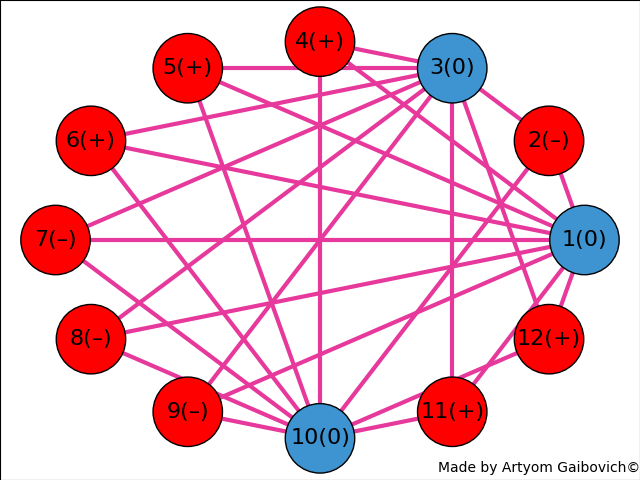
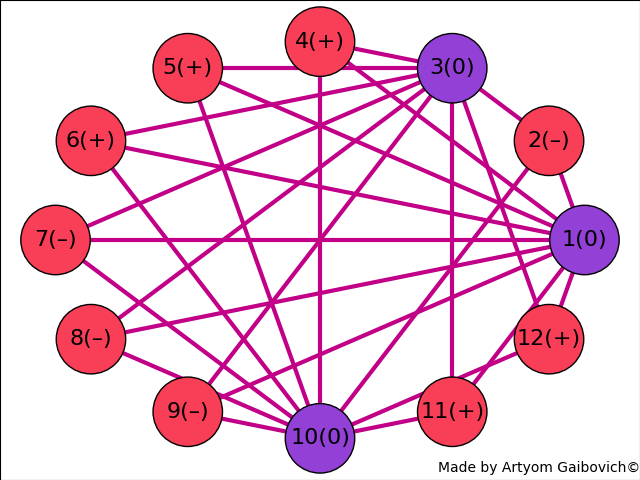
that is all

diff --git a/drawGraph/drawUnionGraph.py b/drawGraph/drawUnionGraph.py
@@ -4,23 +4,30 @@ import networkx as nx
 import matplotlib.pyplot as plt
 
 data = [0, '–', 0, '+', '+', '+', '–', '–', '–', 0, '+', '+']
-df = pd.DataFrame({'col': data}, index=range(1, len(data)+1))
 
+
+data = [str(i).replace('0', '0') for i in data]
+data = [element.replace('–', '-') for element in data]
+
+df = pd.DataFrame({'col': data}, index=range(1, len(data)+1))
 G = nx.Graph()
 
 # добавляем вершины в граф из индексов df
 G.add_nodes_from(df.index)
 
+for node in G.nodes():
+    G.nodes[node]['color'] = '#A468D5'
+
 
 for node1 in G.nodes():
     for node2 in G.nodes():
         if node1 != node2 and df.loc[node1, 'col'] == df.loc[node2, 'col']:
-            if df.loc[node1, 'col'] == 0:  # если значение в ячейке равно "0", добавляем пунктирное ребро
-                G.add_edge(node1, node2, color='yellow', style='dashed')
+            if df.loc[node1, 'col'] == '0':  # если значение в ячейке равно "0", добавляем пунктирное ребро
+                G.add_edge(node1, node2, color='#F30021', style='dashed')
             if df.loc[node1, 'col'] == '+':  # если значение в ячейке равно "0", добавляем пунктирное ребро
-                G.add_edge(node1, node2, color='green', style='dashed')
-            if df.loc[node1, 'col'] == '–' or df.loc[node1, 'col'] == '-':
-                G.add_edge(node1, node2, color='blue', style='dashed')
+                G.add_edge(node1, node2, color='#F97083', style='dashed')
+            if df.loc[node1, 'col'] == '-':
+                G.add_edge(node1, node2, color='#7D0057', style='dashed')
 
 
 # рисуем граф
@@ -29,7 +36,11 @@ labels = {i: str(i) + '(' + str(df.loc[i]['col']) + ')' for i in df.index}
 edges = G.edges()
 colors = [G[u][v]['color'] for u,v in edges]
 styles = [G[u][v]['style'] for u,v in edges]
-nx.draw(G, pos, labels=labels, with_labels=True, width = 3, font_size=16, node_size=1500, edge_color=colors, style=styles)
+nx.draw(G, pos, labels=labels, with_labels=True, width = 3, font_size=16,
+        node_size=1500, edge_color=colors, style=styles,
+    edgecolors='black',
+        node_color=[G.nodes[n]['color'] for n in G.nodes()])
 plt.axis('on')
+plt.figtext(1, 0.01, 'Made by Artyom Gaibovich©', ha='right', va='bottom', size = 10)
 plt.savefig('../templates/my_plotUnion.png')
 plt.show()

diff --git a/drawGraph/drawConfNeutralGraph.py b/drawGraph/drawConfNeutralGraph.py
@@ -1,1 +1,57 @@
 # -*- coding: utf-8 -*-
+import pandas as pd
+import networkx as nx
+import matplotlib.pyplot as plt
+
+data = [0, '–', 0, '+', '+', '+', '–', '–', '–', 0, '+', '+']
+
+data = [str(i).replace('0', '0') for i in data]
+data = [element.replace('–', '-') for element in data]
+
+
+
+print(data)
+
+df = pd.DataFrame({'col': data}, index=range(1, len(data)+1))
+
+G = nx.Graph()
+
+# добавляем вершины в граф из индексов df
+G.add_nodes_from(df.index)
+
+# соединяем 0 с вершинами +/-/-
+zero_nodes = [node for node in G.nodes() if df.loc[node, 'col']=='0']
+plus_nodes = [node for node in G.nodes() if df.loc[node, 'col']=='+']
+minus_nodes = [node for node in G.nodes() if df.loc[node, 'col']=='-']
+
+for zero_node in zero_nodes:
+    for plus_node in plus_nodes:
+        G.add_edge(zero_node, plus_node, color='#C10087')
+    for minus_node in minus_nodes:
+        G.add_edge(zero_node, minus_node, color='#C10087')
+
+
+for node1 in G.nodes():
+    for node2 in G.nodes():
+        if node1 != node2 and df.loc[node1, 'col'] == df.loc[node2, 'col'] and df.loc[node1, 'col'] not in ['0', '-', '+']:
+            G.add_edge(node1, node2, color='#F93E58')
+
+# рисуем граф
+pos = nx.circular_layout(G)
+labels = {i: str(i) + '(' + str(df.loc[i]['col']) + ')' for i in df.index}
+edge_colors = [G[u][v]['color'] for u,v in G.edges()]
+
+node_colors = []
+for node in G.nodes():
+    if df.loc[node, 'col'] != '0':
+        node_colors.append('#F93E58')
+    else:
+        node_colors.append('#9240D5')
+
+nx.draw(G, pos, width=3, edgecolors='black', labels=labels, with_labels=True,
+        font_size=16, edge_color=edge_colors,
+        node_color=node_colors, node_size=2500, )
+plt.axis('on')
+plt.figtext(1, 0.01, 'Made by Artyom Gaibovich©', ha='right', va='bottom', size = 10)
+plt.savefig('../templates/my_plotConfNeutral.png')
+plt.show()

diff --git a/drawGraph/drawConfNegativeGraph.py b/drawGraph/drawConfNegativeGraph.py
@@ -1,1 +1,55 @@
 # -*- coding: utf-8 -*-
+import pandas as pd
+import networkx as nx
+import matplotlib.pyplot as plt
+
+data = [0, '-', 0, '+', '+', '+', '-', '-', '-', 0, '+', '+']
+
+data = [str(i).replace('0', '0') for i in data]
+data = [element.replace('–', '-') for element in data]
+
+
+df = pd.DataFrame({'col': data}, index=range(1, len(data)+1))
+
+G = nx.Graph()
+
+# добавляем вершины в граф из индексов df
+G.add_nodes_from(df.index)
+
+# соединяем 0 с вершинами +/-/-
+zero_nodes = [node for node in G.nodes() if df.loc[node, 'col']=='0']
+plus_nodes = [node for node in G.nodes() if df.loc[node, 'col']=='+']
+minus_nodes = [node for node in G.nodes() if df.loc[node, 'col']=='-']
+
+for minus_node in minus_nodes:
+    for plus_node in plus_nodes:
+        G.add_edge(minus_node, plus_node, color='#C10087')
+    for zero_node in zero_nodes:
+        G.add_edge(minus_node, zero_node, color='#C10087')
+
+
+
+for node1 in G.nodes():
+    for node2 in G.nodes():
+        if node1 != node2 and df.loc[node1, 'col'] == df.loc[node2, 'col'] and df.loc[node1, 'col'] not in ['0', '-', '+']:
+            G.add_edge(node1, node2, color='F93E58')
+
+# рисуем граф
+pos = nx.circular_layout(G)
+labels = {i: str(i) + '(' + str(df.loc[i]['col']) + ')' for i in df.index}
+edge_colors = [G[u][v]['color'] for u,v in G.edges()]
+
+node_colors = []
+for node in G.nodes():
+    if df.loc[node, 'col'] != '-':
+        node_colors.append('#F93E58')
+    else:
+        node_colors.append('#9240D5')
+
+nx.draw(G, pos, width=3, edgecolors='black', labels=labels, with_labels=True,
+        font_size=16, edge_color=edge_colors,
+        node_color=node_colors, node_size=2500, )
+plt.axis('on')
+plt.figtext(1, 0.01, 'Made by Artyom Gaibovich©', ha='right', va='bottom', size = 10)
+plt.savefig('../templates/my_plotConfNegative.png')
+plt.show()

diff --git a/drawGraph/drawConfPositiveGraph.py b/drawGraph/drawConfPositiveGraph.py
@@ -1,1 +1,55 @@
 # -*- coding: utf-8 -*-
+import pandas as pd
+import networkx as nx
+import matplotlib.pyplot as plt
+
+data = [0, '-', 0, '+', '+', '+', '-', '-', '-', 0, '+', '+']
+
+data = [str(i).replace('0', '0') for i in data]
+data = [element.replace('–', '-') for element in data]
+
+
+df = pd.DataFrame({'col': data}, index=range(1, len(data)+1))
+
+G = nx.Graph()
+
+# добавляем вершины в граф из индексов df
+G.add_nodes_from(df.index)
+
+# соединяем 0 с вершинами +/-/-
+zero_nodes = [node for node in G.nodes() if df.loc[node, 'col']=='0']
+plus_nodes = [node for node in G.nodes() if df.loc[node, 'col']=='+']
+minus_nodes = [node for node in G.nodes() if df.loc[node, 'col']=='-']
+
+for plus_node in plus_nodes:
+    for minus_node in minus_nodes:
+        G.add_edge(plus_node, minus_node, color='#C10087')
+    for zero_node in zero_nodes:
+        G.add_edge(plus_node, zero_node, color='#C10087')
+
+
+
+for node1 in G.nodes():
+    for node2 in G.nodes():
+        if node1 != node2 and df.loc[node1, 'col'] == df.loc[node2, 'col'] and df.loc[node1, 'col'] not in ['0', '-', '+']:
+            G.add_edge(node1, node2, color='F93E58')
+
+# рисуем граф
+pos = nx.circular_layout(G)
+labels = {i: str(i) + '(' + str(df.loc[i]['col']) + ')' for i in df.index}
+edge_colors = [G[u][v]['color'] for u,v in G.edges()]
+
+node_colors = []
+for node in G.nodes():
+    if df.loc[node, 'col'] != '+':
+        node_colors.append('#F93E58')
+    else:
+        node_colors.append('#9240D5')
+
+nx.draw(G, pos, width=3, edgecolors='black', labels=labels, with_labels=True,
+        font_size=16, edge_color=edge_colors,
+        node_color=node_colors, node_size=2500, )
+plt.axis('on')
+plt.figtext(1, 0.01, 'Made by Artyom Gaibovich©', ha='right', va='bottom', size = 10)
+plt.savefig('../templates/my_plotConfPositive.png')
+plt.show()

diff --git a/graph.py b/graph.py
@@ -17,15 +17,15 @@ minus_nodes = [node for node in G.nodes() if df.loc[node, 'col']=='–']
 
 for zero_node in zero_nodes:
     for plus_node in plus_nodes:
-        G.add_edge(zero_node, plus_node, color='#E6399B')
+        G.add_edge(zero_node, plus_node, color='#C10087')
     for minus_node in minus_nodes:
-        G.add_edge(zero_node, minus_node, color='#E6399B')
+        G.add_edge(zero_node, minus_node, color='#C10087')
 
 
 for node1 in G.nodes():
     for node2 in G.nodes():
         if node1 != node2 and df.loc[node1, 'col'] == df.loc[node2, 'col'] and df.loc[node1, 'col'] not in [0, '–', '+']:
-            G.add_edge(node1, node2, color='red')
+            G.add_edge(node1, node2, color='F93E58')
 
 # рисуем граф
 pos = nx.circular_layout(G)
@@ -35,9 +35,9 @@ edge_colors = [G[u][v]['color'] for u,v in G.edges()]
 node_colors = []
 for node in G.nodes():
     if df.loc[node, 'col'] != 0:
-        node_colors.append('red')
+        node_colors.append('#F93E58')
     else:
-        node_colors.append('#3E94D1')
+        node_colors.append('#9240D5')
 
 nx.draw(G, pos, width=3, edgecolors='black', labels=labels, with_labels=True,
         font_size=16, edge_color=edge_colors,

diff --git a/main.py b/main.py
@@ -10,7 +10,7 @@ print(n)
 # создаем пустой DataFrame с нужными заголовками столбцов
 df = pd.DataFrame(columns=[chr(i) for i in range(65, 65+len(lst[0]))])
 
-# заполняем DataFrame данными из списка
+
 for i, row in enumerate(lst, 1):
     df.loc[i] = row
 
@@ -38,7 +38,7 @@ for combo in combos:
     new_row = df.loc[combo[0]] + df.loc[combo[1]]
     x = new_row.values
     print(x)
-    temp_arr.append(list(new_row[new_row.isin(['0+','0-','+0','-0','+-','-+'])].index))
+    temp_arr.append(list(new_row[new_row.isin(['0+','0-','+0','-0','+-','-+', '+–', '+–', '0–', '–0'])].index))
     c+=1
 print(len(temp_arr), len(combos))
 
@@ -67,7 +67,7 @@ for combo in new_combos:
     df_new.loc[combo[0][0], combo[0][1]] = None
     df_new.loc[combo[0][1], combo[0][1]] = None
 print(df_new)
-df_new.to_excel('новый_файл1.xlsx')
+df_new.to_excel('./templates/firstTable.xlsx')
 
 #7
 df_new.loc[1,1] = None
@@ -77,5 +77,5 @@ for combo in new_combos:
     df_new.loc[combo[0][1], combo[0][1]] = None
 
 print(df_new)
-df_new.to_excel('новый_файл2.xlsx')
+df_new.to_excel('./templates/secondTable.xlsx')
 
